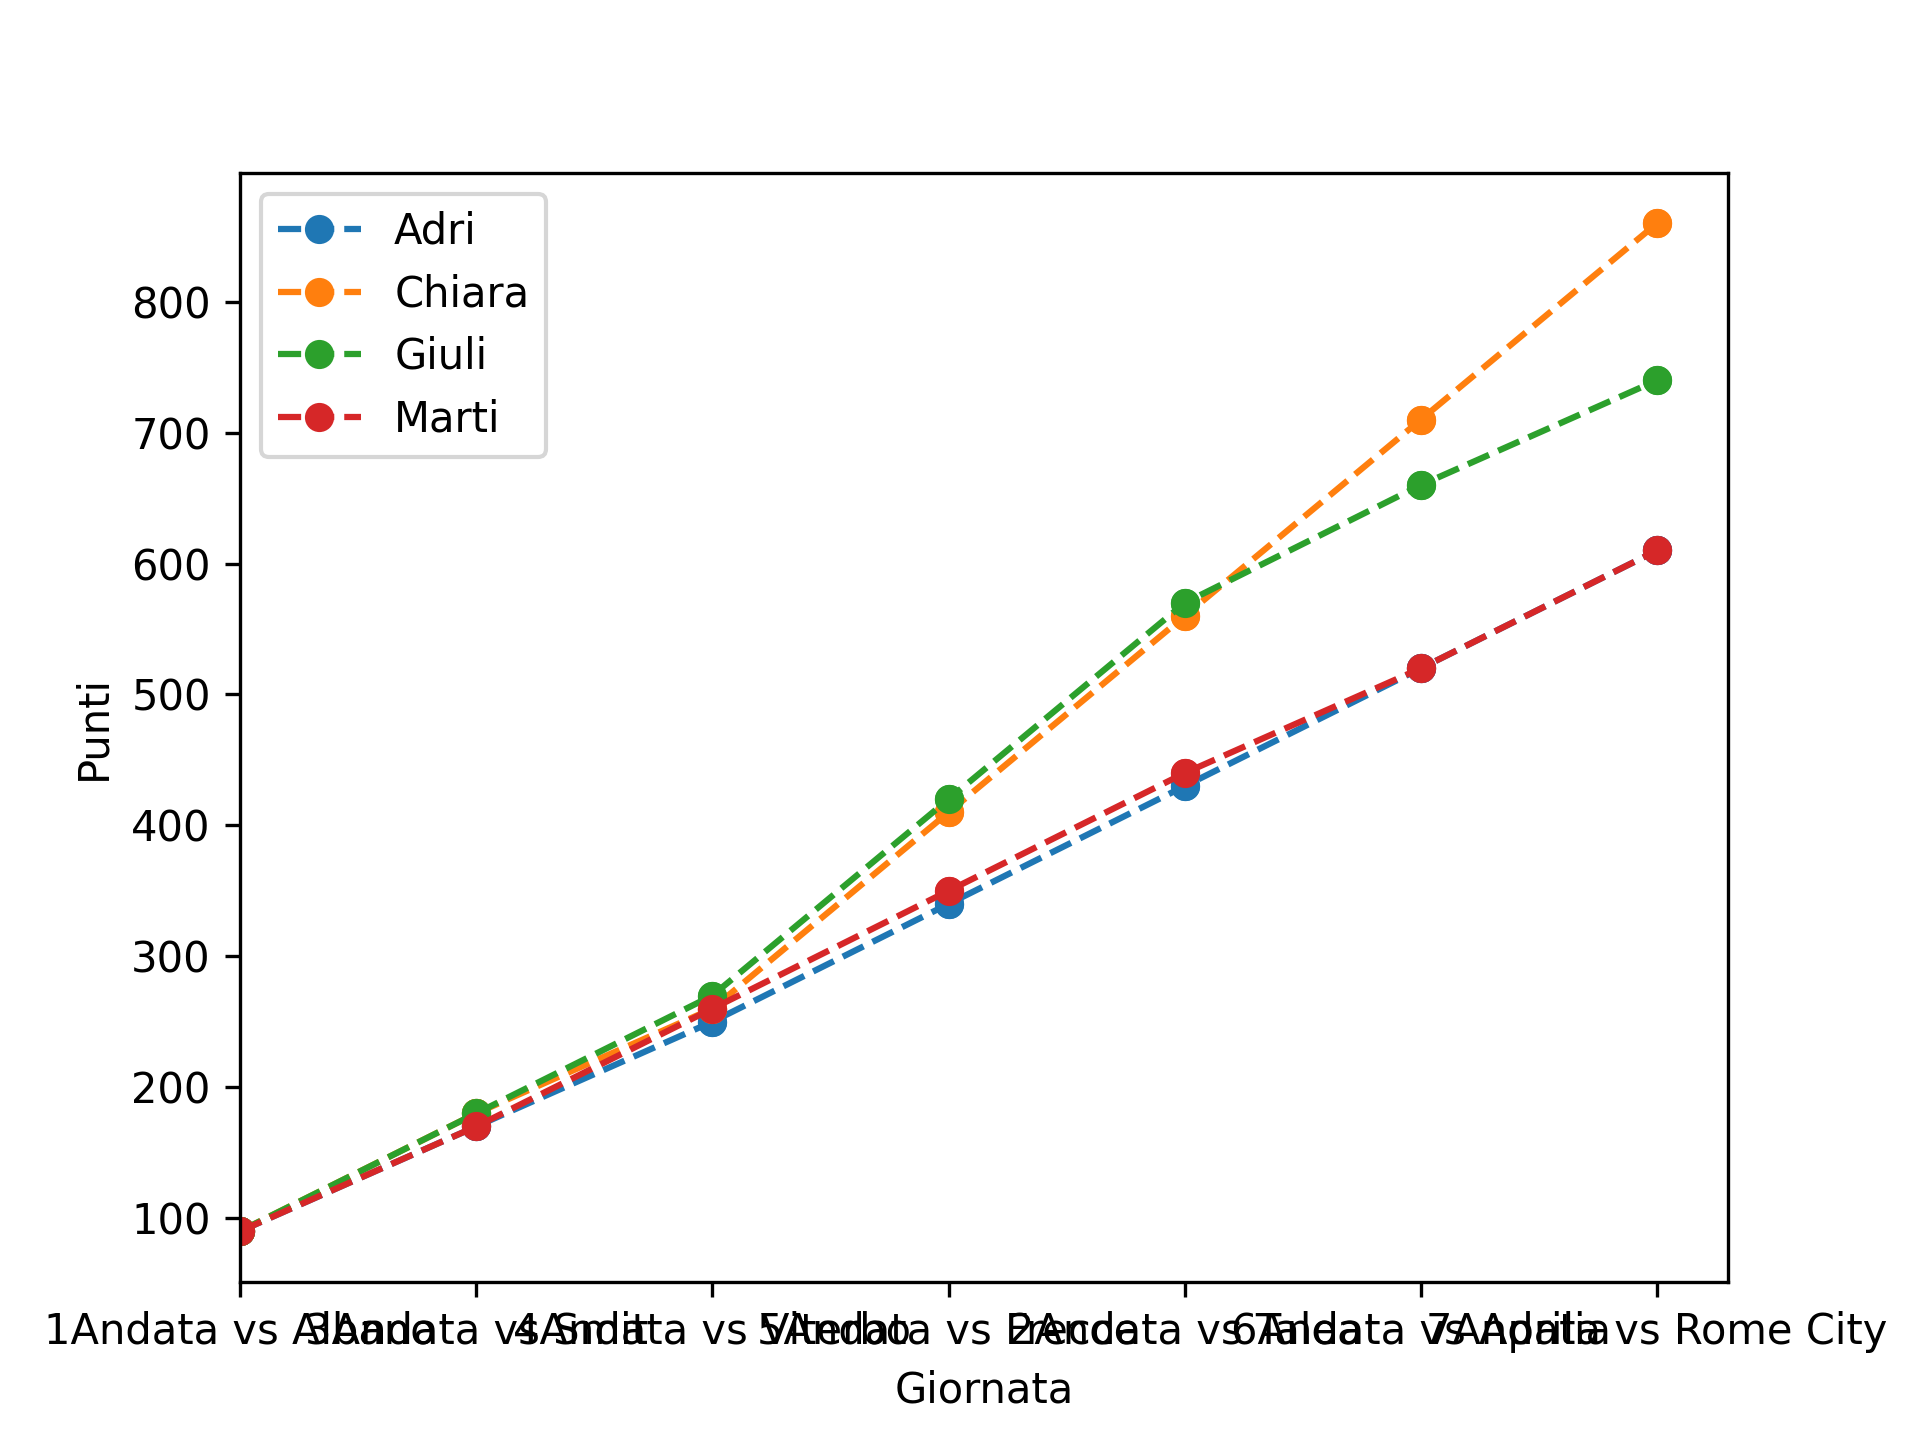
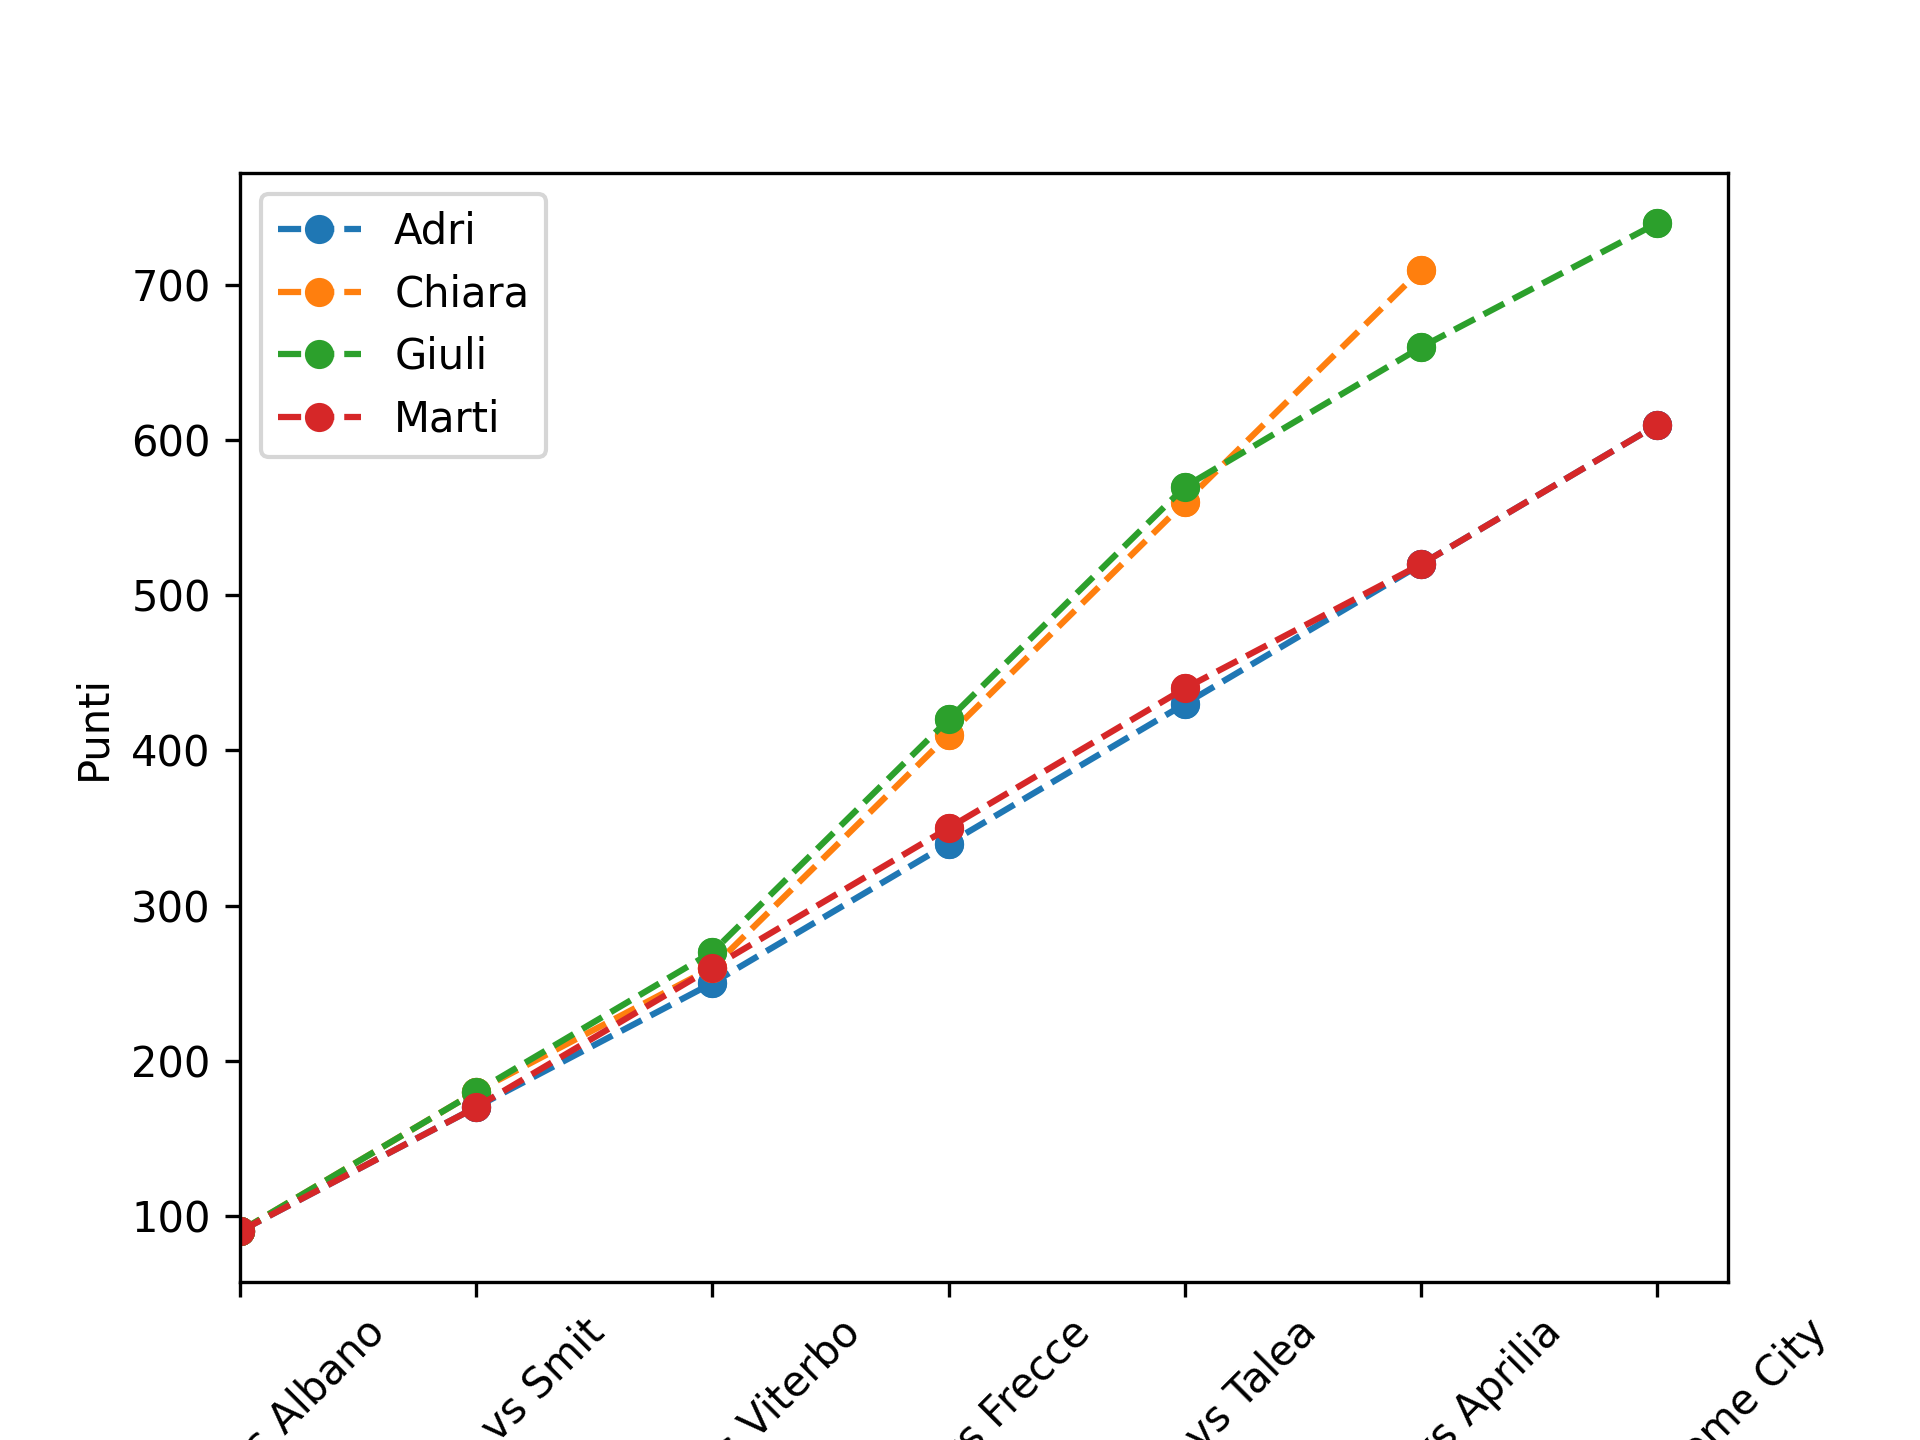
Deployed d6c98d7 with MkDocs version: 1.6.1

diff --git a/Classifica/index.html b/Classifica/index.html
@@ -316,12 +316,12 @@
 </thead>
 <tbody>
 <tr>
-<td style="text-align: left;">Chiara</td>
-<td style="text-align: right;">860</td>
-</tr>
-<tr>
 <td style="text-align: left;">Giuli</td>
 <td style="text-align: right;">740</td>
+</tr>
+<tr>
+<td style="text-align: left;">Chiara</td>
+<td style="text-align: right;">710</td>
 </tr>
 <tr>
 <td style="text-align: left;">Adri</td>
@@ -353,25 +353,25 @@
 <tr>
 <td style="text-align: right;">5</td>
 <td style="text-align: left;">Adri</td>
-<td style="text-align: left;">{'Sara', 'Chiara', 'Marti Door', 'Luna', 'Elisa', 'Susanna Fodaro', 'Giulia', 'Gioia', 'Virginia'}</td>
+<td style="text-align: left;">{'Marti Door', 'Virginia', 'Luna', 'Giulia', 'Susanna Fodaro', 'Elisa', 'Gioia', 'Sara', 'Chiara'}</td>
 <td style="text-align: left;">{'Silvia'}</td>
 </tr>
 <tr>
-<td style="text-align: right;">11</td>
+<td style="text-align: right;">10</td>
 <td style="text-align: left;">Chiara</td>
-<td style="text-align: left;">{'Sara', 'Chiara', 'Marti Door', 'Sofia Grande', 'Luna', 'Elisa', 'Susanna Fodaro', 'Giulia', 'Gioia', 'Virginia'}</td>
-<td style="text-align: left;">{'Lucre'}</td>
+<td style="text-align: left;">{'Silvia', 'Virginia', 'Luna', 'Giulia', 'Elisa', 'Gioia', 'Marti Gualti', 'Sara', 'Chiara', 'Sophia Piccola'}</td>
+<td style="text-align: left;">set()</td>
 </tr>
 <tr>
-<td style="text-align: right;">24</td>
+<td style="text-align: right;">23</td>
 <td style="text-align: left;">Giuli</td>
-<td style="text-align: left;">{'Sara', 'Chiara', 'Marti Door', 'Sofia Grande', 'Luna', 'Elisa', 'Giulia', 'Virginia'}</td>
-<td style="text-align: left;">{'Silvia', 'Sophia Piccola'}</td>
+<td style="text-align: left;">{'Marti Door', 'Virginia', 'Sofia Grande', 'Luna', 'Giulia', 'Elisa', 'Sara', 'Chiara'}</td>
+<td style="text-align: left;">{'Sophia Piccola', 'Silvia'}</td>
 </tr>
 <tr>
-<td style="text-align: right;">32</td>
+<td style="text-align: right;">31</td>
 <td style="text-align: left;">Marti</td>
-<td style="text-align: left;">{'Sara', 'Chiara', 'Marti Door', 'Sofia Grande', 'Luna', 'Elisa', 'Giulia', 'Gioia', 'Virginia'}</td>
+<td style="text-align: left;">{'Marti Door', 'Virginia', 'Sofia Grande', 'Luna', 'Giulia', 'Elisa', 'Gioia', 'Sara', 'Chiara'}</td>
 <td style="text-align: left;">{'Andre'}</td>
 </tr>
 </tbody>
